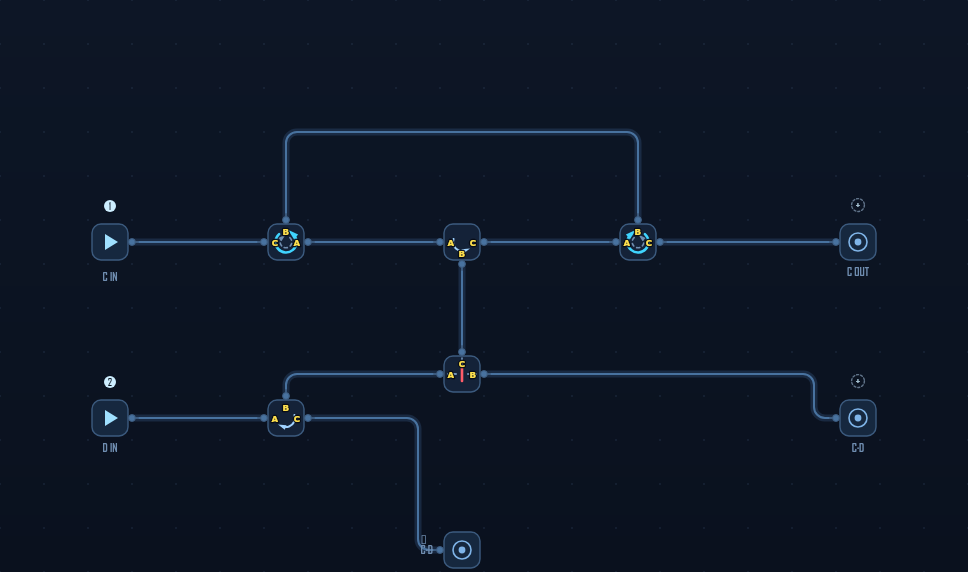
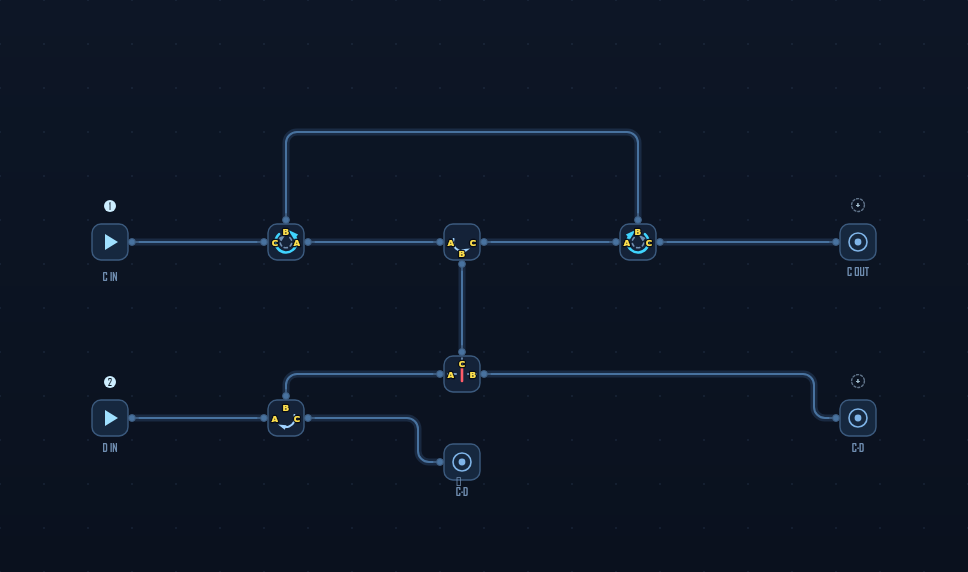
w4l7: nudge the not-C.D detector up so its label clears the wire
At y=12 the detector sat on the board's bottom edge, so drawLabelsAndChips
fell back to drawing its label beside the element (to the left) -- straight
across the incoming wire. Moving it to y=10 puts the label underneath, clear
of the routing. Both references (STS + UTR) still certify planar; galleries
re-rendered.

Changed region(s): [[0.4029, 0.7727, 0.4959, 1.0]]

diff --git a/js/levels.js b/js/levels.js
@@ -833,7 +833,7 @@ the whole point of the research, in a single circuit.`,
       notebook: ['threeports'],
       fixed: [
         el('L_C', 'LAUNCHER', 2, 5), el('L_D', 'LAUNCHER', 2, 9),
-        el('D_cout', 'DETECTOR', 19, 5), el('D_cd', 'DETECTOR', 19, 9), el('D_ncd', 'DETECTOR', 10, 12),
+        el('D_cout', 'DETECTOR', 19, 5), el('D_cd', 'DETECTOR', 19, 9), el('D_ncd', 'DETECTOR', 10, 10),
       ],
       labels: { L_C: 'C IN', L_D: 'D IN', D_cout: 'C OUT', D_cd: 'C·D', D_ncd: 'C̄·D' },
       palette: { STS: 2, UTR: 2, TCB: 1, ROTARY: 2 },